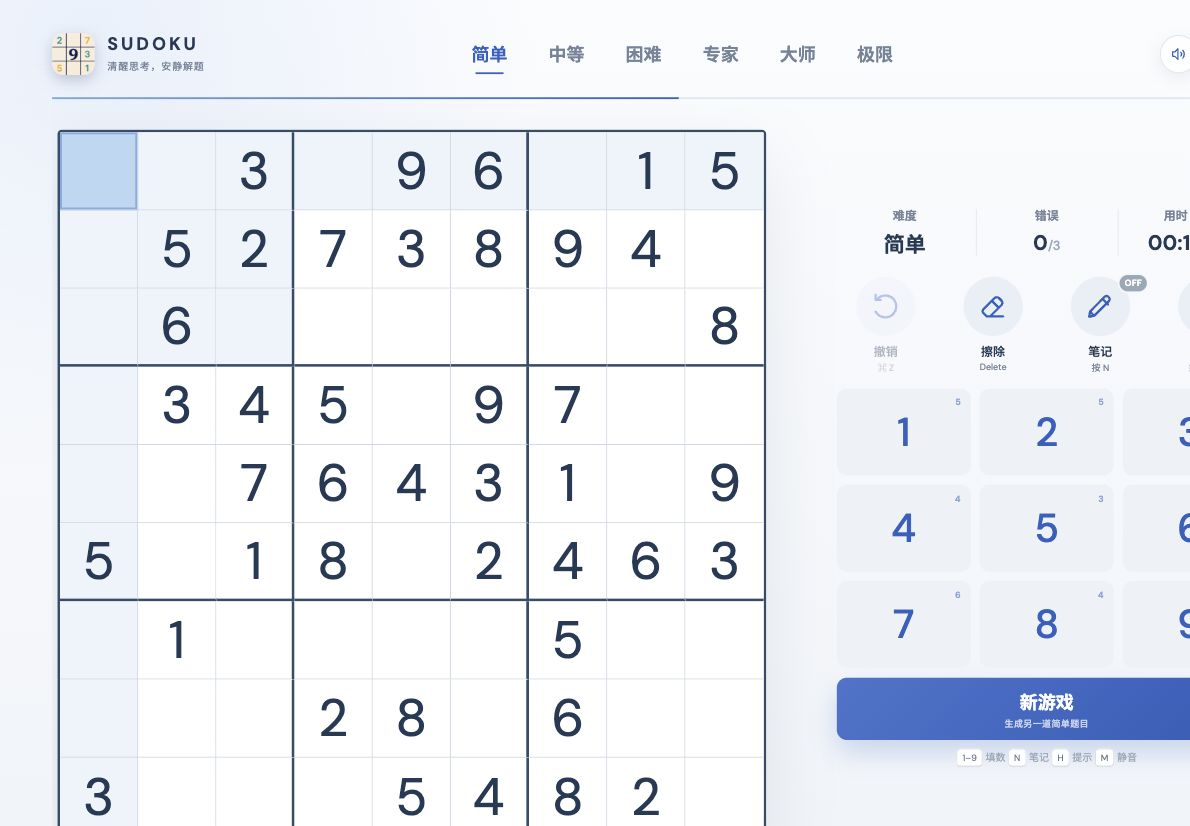
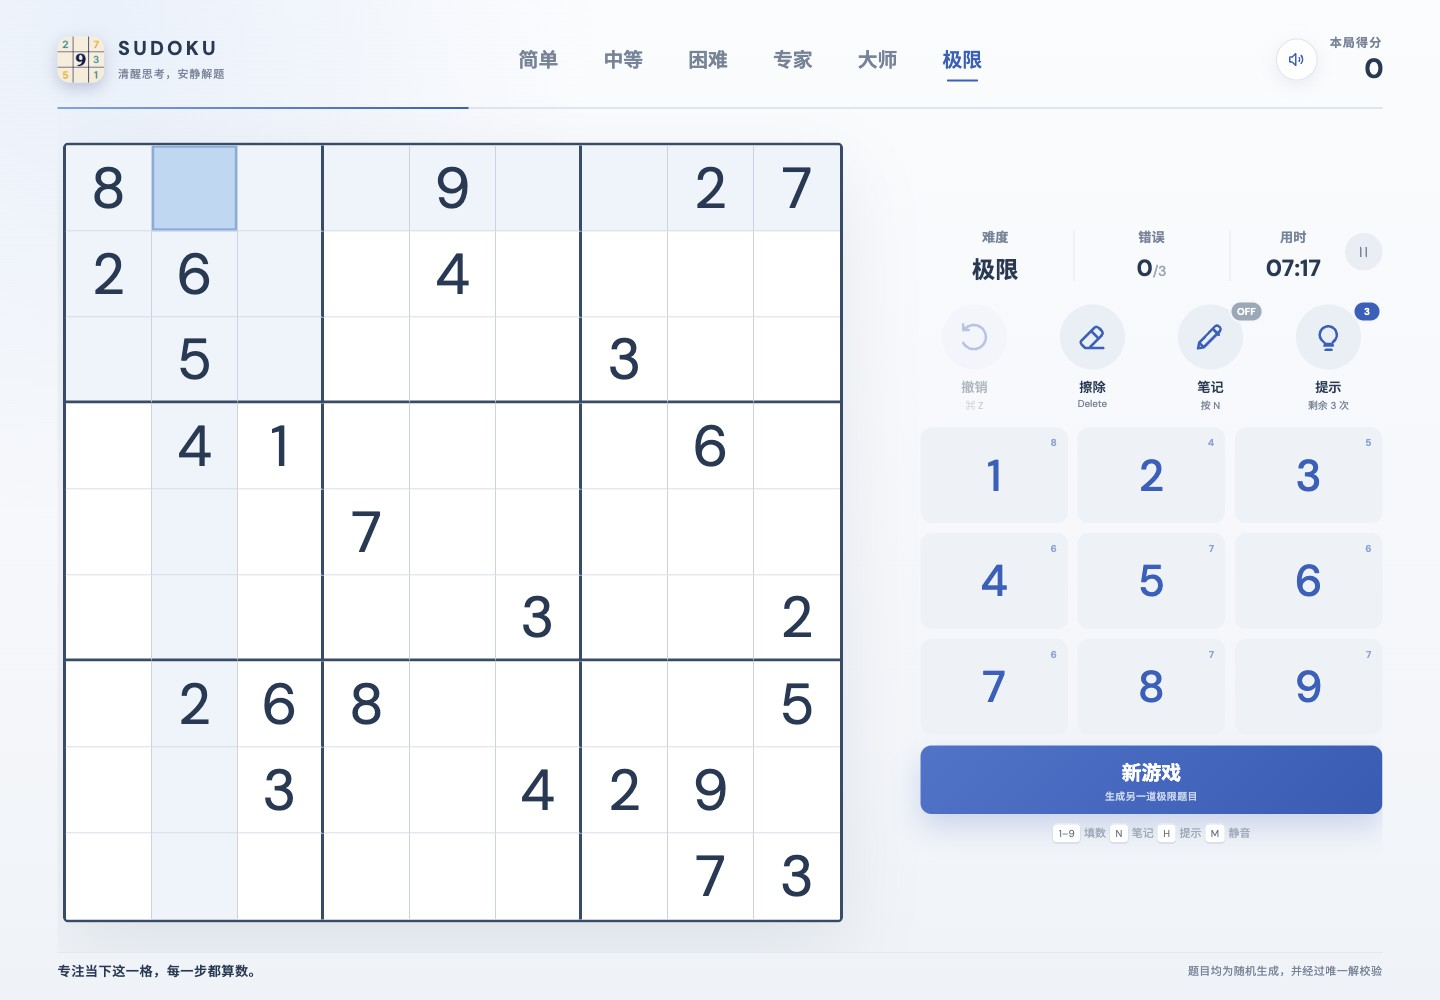
docs: fix cropped game screenshots

diff --git a/README.md b/README.md
@@ -28,7 +28,7 @@
 
 **笔记模式**：开启笔记后，可在空格中记录多个候选数。
 
-![笔记模式：前两个格子记录候选数，笔记按钮显示已开启](docs/screenshots/notes.jpg)
+![笔记模式：第一行两个空格记录候选数，笔记按钮显示已开启](docs/screenshots/notes.jpg)
 
 ## 本地启动
 
